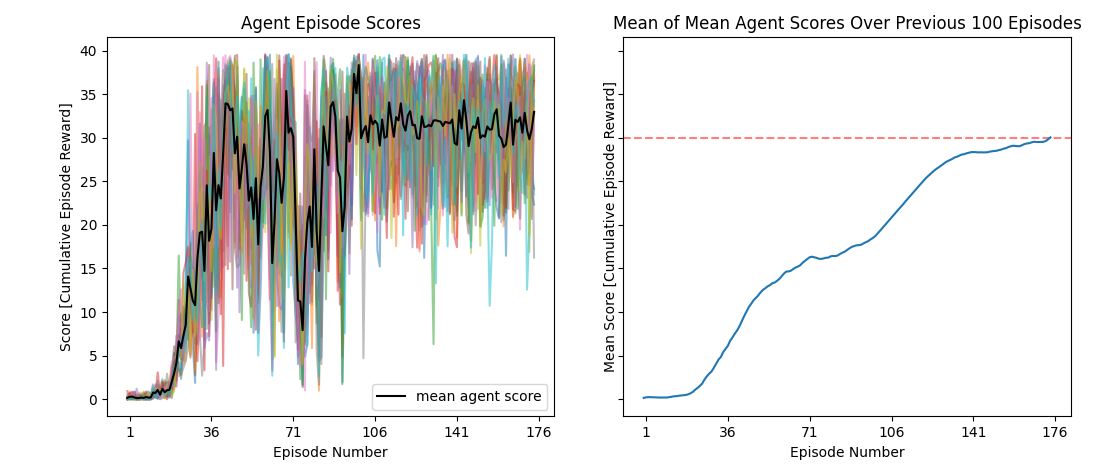
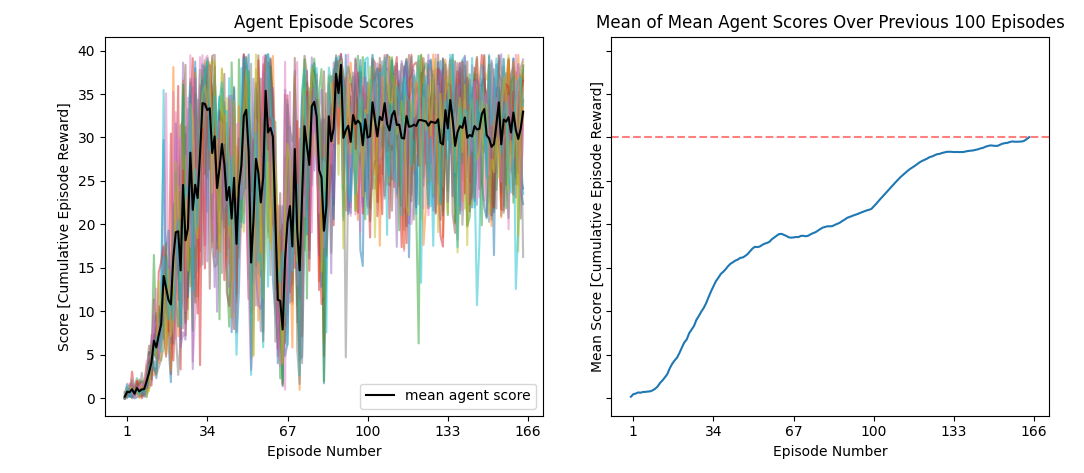
updated README.md, removed first 10 invalid scores from buffer prefilling recorded during training

diff --git a/README.md b/README.md
@@ -1,2 +1,109 @@
-# udacity_rl_p2
-Udacity Deep Reinforcement Learning Project 2 Submission
+# Udacity Deep Reinforcement Learning<br>Project 2 Version 2 Submission
+Robert Griffith
+
+## Project Details
+
+The goal of version 2 of this project was to use deep reinforcement learning  
+techniques for continuous action and state spaces to learn a policy that  
+provides an agent with continuous control over a double-jointed arm attempting  
+to move to target locations in a provided UnityEnvironment. This Reacher  
+environment is provided by Udacity and follows the architecture of the  
+open-source Unity plugin **Unity Machine Learning Agents (ML-Agents)**.<br>
+Version 2 specifically involves the use of deep reinforcement learning  
+techniques that make use of multiple (non-interacting, parallel) copies of the  
+same agent operating in parallel simulations to distribute the task of  
+gathering experience.
+
+In this Reacher environment, an agent is provided a reward of +0.1 for each  
+timestep that the agent's "hand" is in the goal location. The goal of an agent  
+in this environment is to maximize its rewards over the course of an episode,  
+thus it attempts to position its hand within the moving goal location for as  
+many time steps as possible. As stated before, with version 2 of this project  
+there are multiple (20) agents operating in parallel but not interacting,  
+each with their own individual goal location.
+
+The state space that the agent perceives to perform actions in the environment  
+has 33 dimensions and contains the position, rotoation, velocity, and angular  
+velocities of the agent arm. Each action has 4 dimensions corresponding to  
+torque applicable to two joints of the agent arm.
+
+This task is episodic, and the environment is considered "solved" upon the mean  
+earned agent score (taken over all 20 agents) averaged over 100 consecutive   
+episodes being greater than or equal to +30. An individual agent "score" for an  
+episode is the cumulative sum of that agent's reward from each time step in the  
+episode.
+
+
+## Repository Contents
+
+| directory | contents |
+| ----------| -------- |
+| model | saved model weights and recorded scores |
+| src | python source files used to train model |
+
+| source file | description |
+| ----------- | ----------- |
+| d4pq.py | D4PG class (gradient step and action inference, see report) |
+| nn.py | Neural network utility functions |
+| plot.py | Plotting function for csv output from training routine |
+| replay.py | Experience replay buffer class |
+| train.py | Main function for training an agent to solve a UnityEnvironment |
+
+`Report.md` contains the project report that is required for the submission of  
+this project, and contains more detailed descriptions of the methods used in the  
+source files listed above.
+
+`src/train.py` utilizes capitalized constants defined at the top of `train(...)`  
+and accepts a path to a UnityEnvironment executable; so while its  
+hyperparameters and required average score are tuned for the environment used  
+in this project specifically, it is designed to be somewhat generalizable. The  
+executable path is taken as a command line argument when run as the main  
+script. This is done to prevent the need to modify the file when running on  
+various machines where the executable path will naturally differ.
+
+
+## Getting Started
+
+### Step 1: Clone the DRLND Repository
+Follow the [instructions in the DRLND GitHub repository](https://github.com/udacity/deep-reinforcement-learning#dependencies) provided by Udacity to  
+set up your Python environment. These instructions are found in the repository's  
+own `README.md` file. For this project submission, **steps 2, 4, 5 are not required**  
+as OpenAI gym is not utilized and neither are any IPython notebooks.  
+**The required steps 1, 3** will install PyTorch, the ML-Agents toolkit, and other  
+dependencies.
+
+### Step 2: Download the Unity Environment
+You will **not** need to install Unity; only the executable itself is required.  
+The following links all correspond to version 2 of this project.  
+You will need to select the environment binary that matches your operating system:
+* Linux: [click here](https://s3-us-west-1.amazonaws.com/udacity-drlnd/P2/Reacher/Reacher_Linux.zip)
+* Mac OSX: [click here](https://s3-us-west-1.amazonaws.com/udacity-drlnd/P2/Reacher/Reacher.app.zip)
+* Windows (32-bit): [click here](https://s3-us-west-1.amazonaws.com/udacity-drlnd/P2/Reacher/Reacher_Windows_x86.zip)
+* Windows (64-bit): [click here](https://s3-us-west-1.amazonaws.com/udacity-drlnd/P2/Reacher/Reacher_Windows_x86_64.zip)
+
+These links are provided and maintained by Udacity.  
+You can unzip this executable wherever you wish. As described earlier, `train(...)`  
+from `src/train.py` will take the executable path as an argument.
+
+With this, all dependencies will have been installed. To make your PyTorch  
+installation specific to a particular CUDA toolkit version `XY.Z`, within Anaconda  
+run the following command: 
+
+`conda install pytorch cudatoolkit=XY.Z -c pytorch`
+
+
+## Instructions
+
+`src/train.py` contains the function `train(...)` that will be used to train an  
+agent to solve this environment. This function can of course be invoked from  
+within a Python interpreter, or be invoked from the command line in the following  
+way from the root of this repository:
+
+`python -m src.train <PATH_TO_UNITY_ENVIRONMENT_BINARY>`
+
+Upon the completion of training, the following files are written to the working  
+directory:
+* `distq.pt`: a PyTorch model for the critic distributional Q-function network
+* `policy.pt`: a Pytorch model for the policy network
+* `scores.csv`: a CSV file containing episode scores for all each agent
+* `scores_avg.csv`: a CSV file containing the mean agent episode scores
